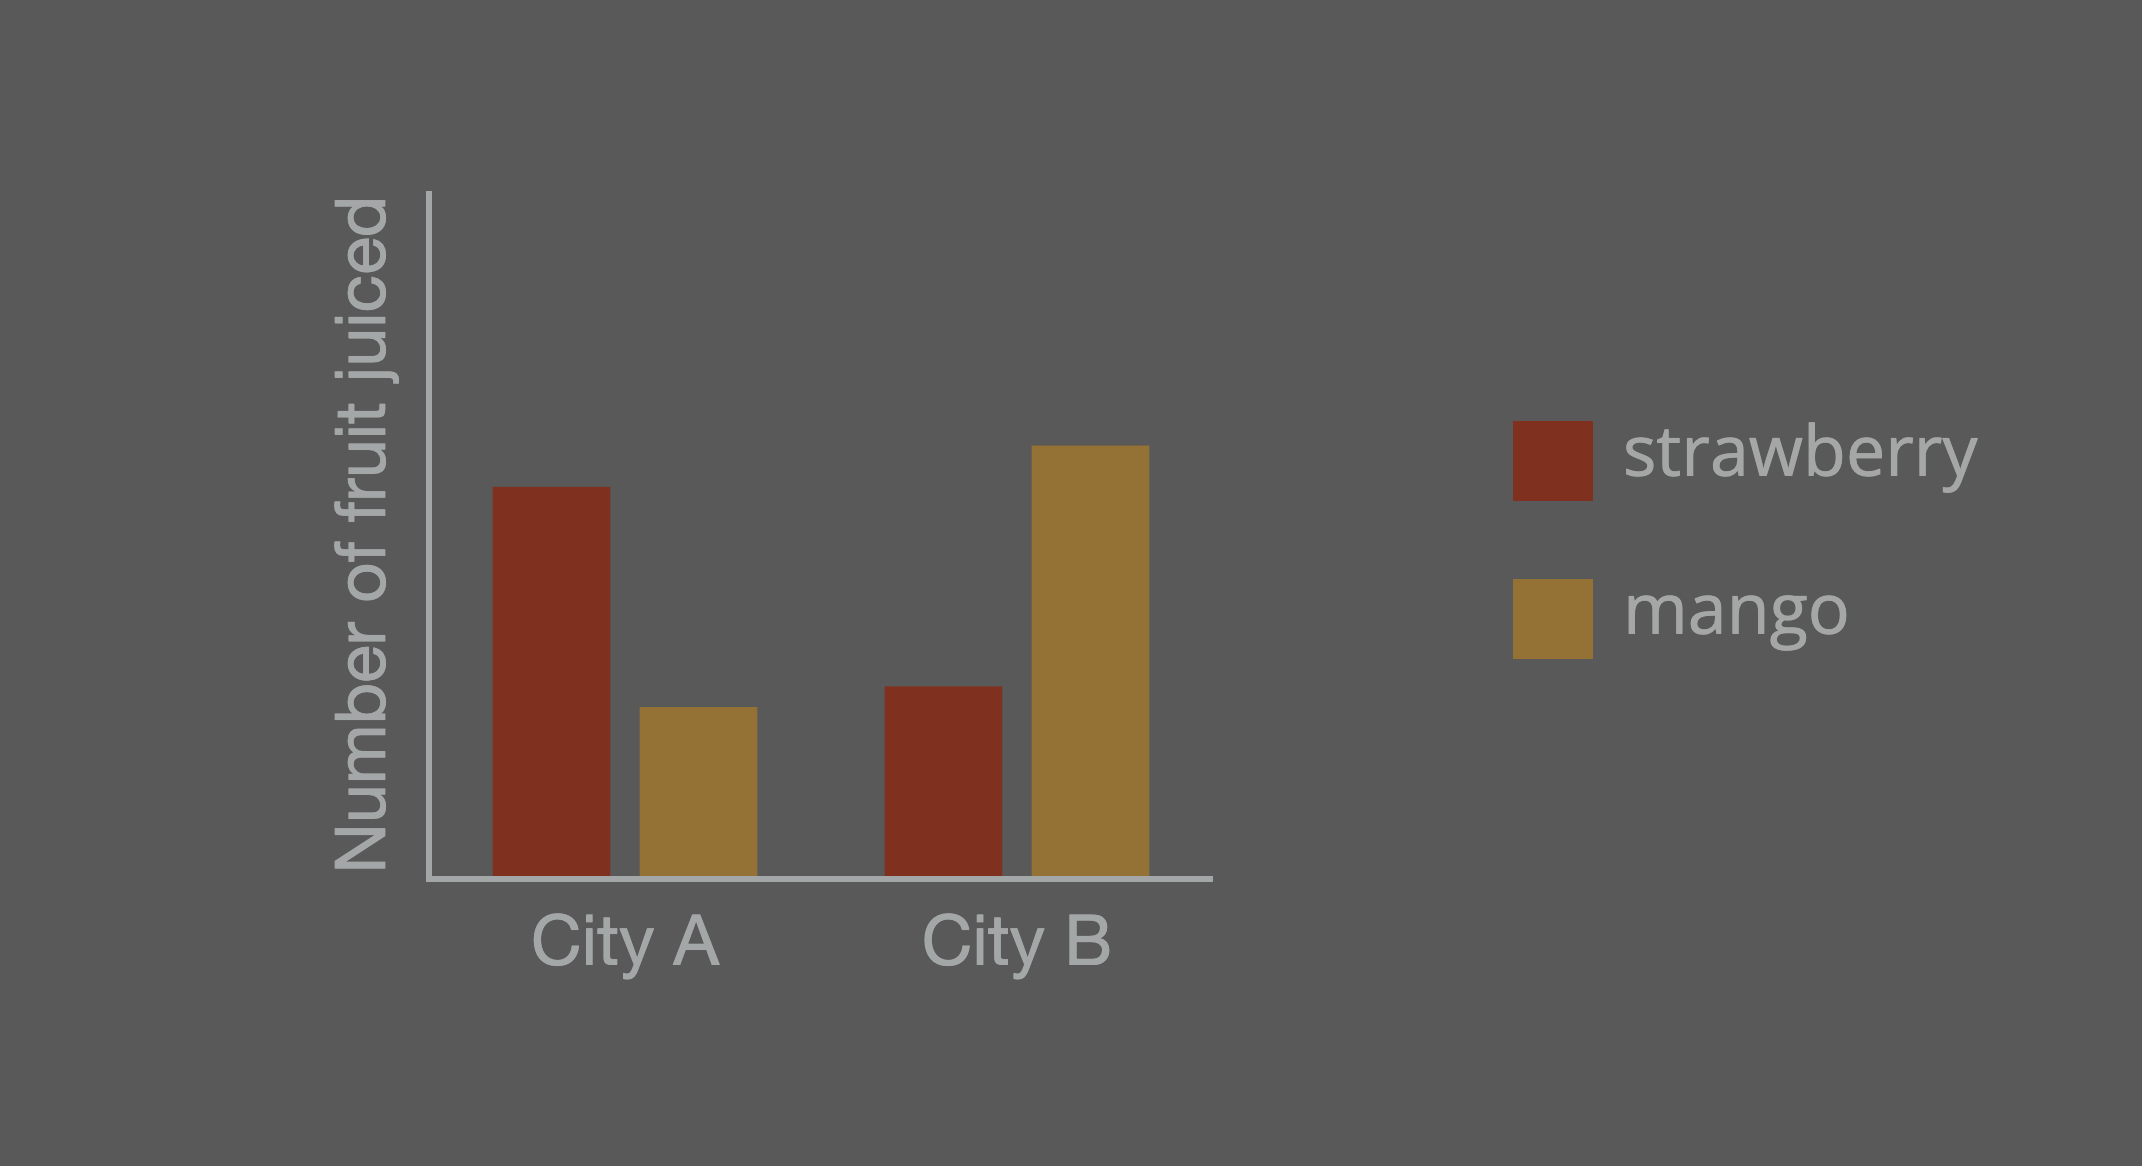
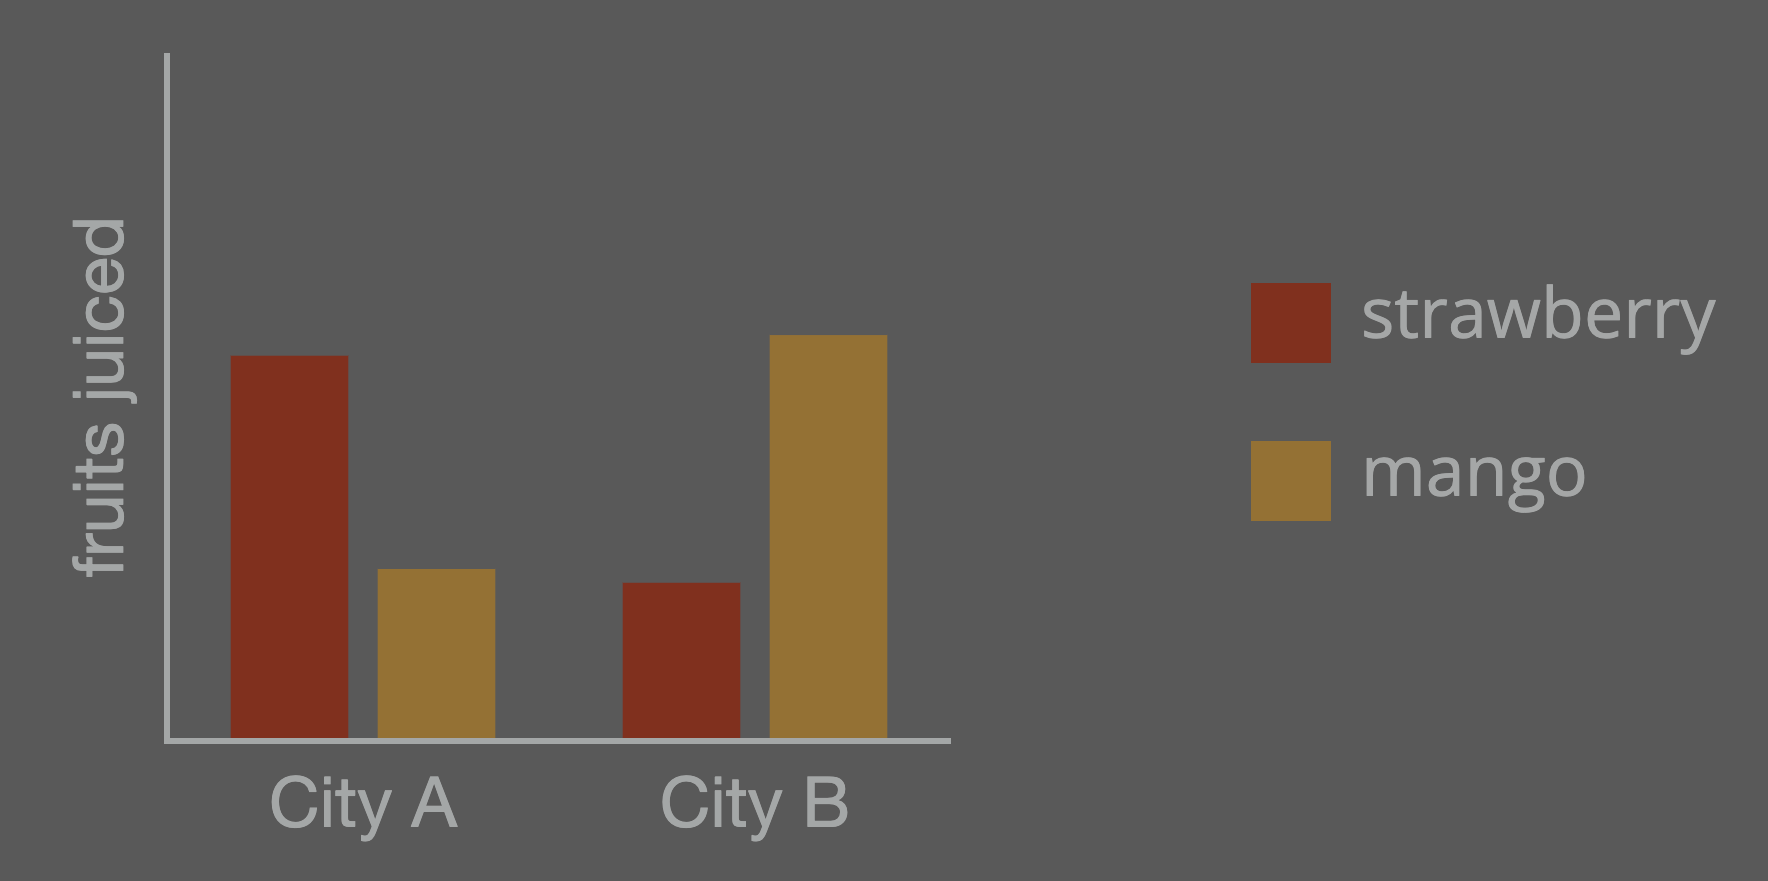
practice trials and image

diff --git a/index_within.html b/index_within.html
@@ -38,7 +38,7 @@
   
   
   <script type="text/javascript">
-    console.log('V3.0')
+    console.log('V3.1')
     
     
     // function to adjust the colors for the particular monitor the experiment is being conducted on.
@@ -683,6 +683,238 @@
                                   
                                 }
                                 trials.push(instructions);
+
+                                trials.push(
+                                {
+                                  type:jsPsychHtmlKeyboardResponse,
+                                  stimulus: function(){
+                                    
+                                    return '<p style = "max-width:850px;">\
+                                      The next chart will be about <br><br>\
+                                      <span style = "font-size:45px">number of '+'restaurant reviews'+' </span><br><br>\
+                                      in each city.<br>\
+                                      Please press the spacebar when you are ready to view the chart.<p>'},
+                                        choices: [' '],
+                                        // choices: ['Continue'],
+                                        // button_html: '<button class="jspsych-btn">%choice%</button>',
+                                        css_classes: ['text'],
+                                        // button_html: '<button class="jspsych-btn" style ="color:rgba(255,255,255)">%choice%</button>',
+                                        
+                                        
+                                      },
+                                      {
+                                        
+                                        type: jsPsychHtmlKeyboardResponse,
+                                        stimulus: '<div style="font-size:60px;">+</div>',
+                                        choices: "NO_KEYS",
+                                        trial_duration: 500,
+                                        css_classes: ['text']
+                                        
+                                      },
+                                      {
+                                        type: jsPsychCongruenceGraph,
+                                        innerHigh:true,
+                                        correctCity: 'A',
+                                        practiceTrial:1,
+                                        fontColor:getAdjustedColors(29),
+                                        city1:'A',
+                                        city2:'B',
+                                        concept1: 'angry',
+                                        concept2:'disgust',
+                                        concept1color:getAdjustedColors(63),
+                                        concept2color:getAdjustedColors(54),
+                                        ylabel: 'reviews written',
+                                        trial_duration: 2000,
+                                        
+                                      },
+                                      {
+                                        type:jsPsychHtmlKeyboardResponse,
+                                        
+                                        stimulus: function(){
+                                          return `<p>Which city’s restaurant reviews express more disgust?</p>\
+                                          <p style= "font-size:45px">City A &nbsp;&nbsp;&nbsp;&nbsp;&nbsp;&nbsp;\
+                                            &nbsp; &nbsp; &nbsp; &nbsp;&nbsp;&nbsp;&nbsp;&nbsp;&nbsp;&nbsp; City B</p>`},
+                                            choices: ['ArrowLeft','ArrowRight'],
+                                            correctCity: 'A',
+                                            css_classes: ['text']
+                                          },
+                                          {
+                                            type:jsPsychHtmlKeyboardResponse,
+                                            stimulus: function(){
+                                              
+                                              return '<p style = "max-width:850px;">\
+                                                The next chart will be about <br><br>\
+                                                <span style = "font-size:45px">number of '+'hours spent'+' </span><br><br>\
+                                                in each city.<br>\
+                                                Please press the spacebar when you are ready to view the chart.<p>'},
+                                                  choices: [' '],
+                                                  // choices: ['Continue'],
+                                                  // button_html: '<button class="jspsych-btn">%choice%</button>',
+                                                  css_classes: ['text'],
+                                                  // button_html: '<button class="jspsych-btn" style ="color:rgba(255,255,255)">%choice%</button>',
+                                                  
+                                                  
+                                                },
+                                                {
+                                                  
+                                                  type: jsPsychHtmlKeyboardResponse,
+                                                  stimulus: '<div style="font-size:60px;">+</div>',
+                                                  choices: "NO_KEYS",
+                                                  trial_duration: 500,
+                                                  css_classes: ['text']
+                                                  
+                                                },
+                                                
+                                                {
+                                                  type: jsPsychCongruenceGraph,
+                                                  innerHigh:false,
+                                                  correctCity: 'B',
+                                                  practiceTrial:1,
+                                                  fontColor:getAdjustedColors(29),
+                                                  city1:'A',
+                                                  city2:'B',
+                                                  concept1: 'working',
+                                                  concept2:'leisure',
+                                                  concept1color:getAdjustedColors(26),
+                                                  concept2color:getAdjustedColors(17),
+                                                  ylabel: 'hours spent',
+                                                  trial_duration: 2000,
+                                                  
+                                                },
+                                                {
+                                                  type:jsPsychHtmlKeyboardResponse,
+                                                  
+                                                  stimulus: function(){
+                                                    return `<p>Which city spends more weekend hours on leisure?</p>\
+                                                    <p style= "font-size:45px">City A&nbsp;&nbsp;&nbsp;&nbsp;&nbsp;&nbsp;\
+                                                      &nbsp; &nbsp; &nbsp; &nbsp;&nbsp;&nbsp;&nbsp;&nbsp;&nbsp;&nbsp; City B</p>`},
+                                                      choices: ['ArrowLeft','ArrowRight'],
+                                                      correctCity: 'B',
+                                                      
+                                                      css_classes: ['text']
+                                                    },
+                                                    {
+                                                      type:jsPsychHtmlKeyboardResponse,
+                                                      stimulus: function(){
+                                                        
+                                                        return '<p style = "max-width:850px;">\
+                                                          The next chart will be about <br><br>\
+                                                          <span style = "font-size:45px">number of '+'times commuted'+' </span><br><br>\
+                                                          in each city.<br>\
+                                                          Please press the spacebar when you are ready to view the chart.<p>'},
+                                                            choices: [' '],
+                                                            // choices: ['Continue'],
+                                                            // button_html: '<button class="jspsych-btn">%choice%</button>',
+                                                            css_classes: ['text'],
+                                                            // button_html: '<button class="jspsych-btn" style ="color:rgba(255,255,255)">%choice%</button>',
+                                                            
+                                                            
+                                                          },
+                                                          {
+                                                            
+                                                            type: jsPsychHtmlKeyboardResponse,
+                                                            stimulus: '<div style="font-size:60px;">+</div>',
+                                                            choices: "NO_KEYS",
+                                                            trial_duration: 500,
+                                                            css_classes: ['text']
+                                                            
+                                                          },
+                                                          {
+                                                            type: jsPsychCongruenceGraph,
+                                                            innerHigh:true,
+                                                            correctCity: 'B',
+                                                            practiceTrial:1,
+                                                            fontColor:getAdjustedColors(29),
+                                                            city1:'A',
+                                                            city2:'B',
+                                                            concept1: 'day',
+                                                            concept2:'night',
+                                                            concept1color:getAdjustedColors(23),
+                                                            concept2color:getAdjustedColors(26),
+                                                            ylabel: 'times commuted',
+                                                            trial_duration: 2000,
+                                                            
+                                                          }, 
+                                                          {
+                                                            type:jsPsychHtmlKeyboardResponse,
+                                                            
+                                                            stimulus: function(){
+                                                              return `<p>Which city’s employees commute more times in the day?</p>\
+                                                              <p style= "font-size:45px">City A &nbsp;&nbsp;&nbsp;&nbsp;&nbsp;&nbsp;\
+                                                                &nbsp; &nbsp; &nbsp; &nbsp;&nbsp;&nbsp;&nbsp;&nbsp;&nbsp;&nbsp; City B</p>`},
+                                                                choices: ['ArrowLeft','ArrowRight'],
+                                                                correctCity: 'B',
+                                                                css_classes: ['text']
+                                                              },
+                                                              {
+                                                                type:jsPsychHtmlKeyboardResponse,
+                                                                stimulus: function(){
+                                                                  
+                                                                  return '<p style = "max-width:850px;">\
+                                                                    The next chart will be about <br><br>\
+                                                                    <span style = "font-size:45px">number of '+'fruits juiced'+' </span><br><br>\
+                                                                    in each city.<br>\
+                                                                    Please press the spacebar when you are ready to view the chart.<p>'},
+                                                                      choices: [' '],
+                                                                      // choices: ['Continue'],
+                                                                      // button_html: '<button class="jspsych-btn">%choice%</button>',
+                                                                      css_classes: ['text'],
+                                                                      // button_html: '<button class="jspsych-btn" style ="color:rgba(255,255,255)">%choice%</button>',
+                                                                      
+                                                                      
+                                                                    },
+                                                                    {
+                                                                      
+                                                                      type: jsPsychHtmlKeyboardResponse,
+                                                                      stimulus: '<div style="font-size:60px;">+</div>',
+                                                                      choices: "NO_KEYS",
+                                                                      trial_duration: 500,
+                                                                      css_classes: ['text']
+                                                                      
+                                                                    },
+                                                                    {
+                                                                      type: jsPsychCongruenceGraph,
+                                                                      innerHigh:false,
+                                                                      correctCity: 'B',
+                                                                      practiceTrial:1,
+                                                                      fontColor:getAdjustedColors(29),
+                                                                      city1:'A',
+                                                                      city2:'B',
+                                                                      concept1: 'strawberry',
+                                                                      concept2:'mango',
+                                                                      concept1color:getAdjustedColors(63),
+                                                                      concept2color:getAdjustedColors(71),
+                                                                      ylabel: 'fruits juiced',
+                                                                      trial_duration: 2000,
+                                                                      
+                                                                    },
+                                                                    {
+                                                                      type:jsPsychHtmlKeyboardResponse,
+                                                                      
+                                                                      stimulus: function(){
+                                                                        return `<p>Which city juices more mangoes?</p>\
+                                                                        <p style= "font-size:45px">City A &nbsp;&nbsp;&nbsp;&nbsp;&nbsp;&nbsp;\
+                                                                          &nbsp; &nbsp; &nbsp; &nbsp;&nbsp;&nbsp;&nbsp;&nbsp;&nbsp;&nbsp; City B</p>`},
+                                                                          choices: ['ArrowLeft','ArrowRight'],
+                                                                          correctCity: 'B',
+                                                                          css_classes: ['text']
+                                                                        }
+                                                                        
+                                                                        )
+
+                                                                        trials.push({
+                                                                          type: jsPsychHtmlKeyboardResponse,
+                                                                          stimulus: `Good job! You have completed the practice trials.<br>\ 
+                                                                          We will now begin with block 1 of the experiment. Please press the spacebar to begin.`,
+                                                                          css_classes:['text'],
+                                                                          choices:[' ']
+
+                                                                        })
+
+
+
+
+
 
 
 
